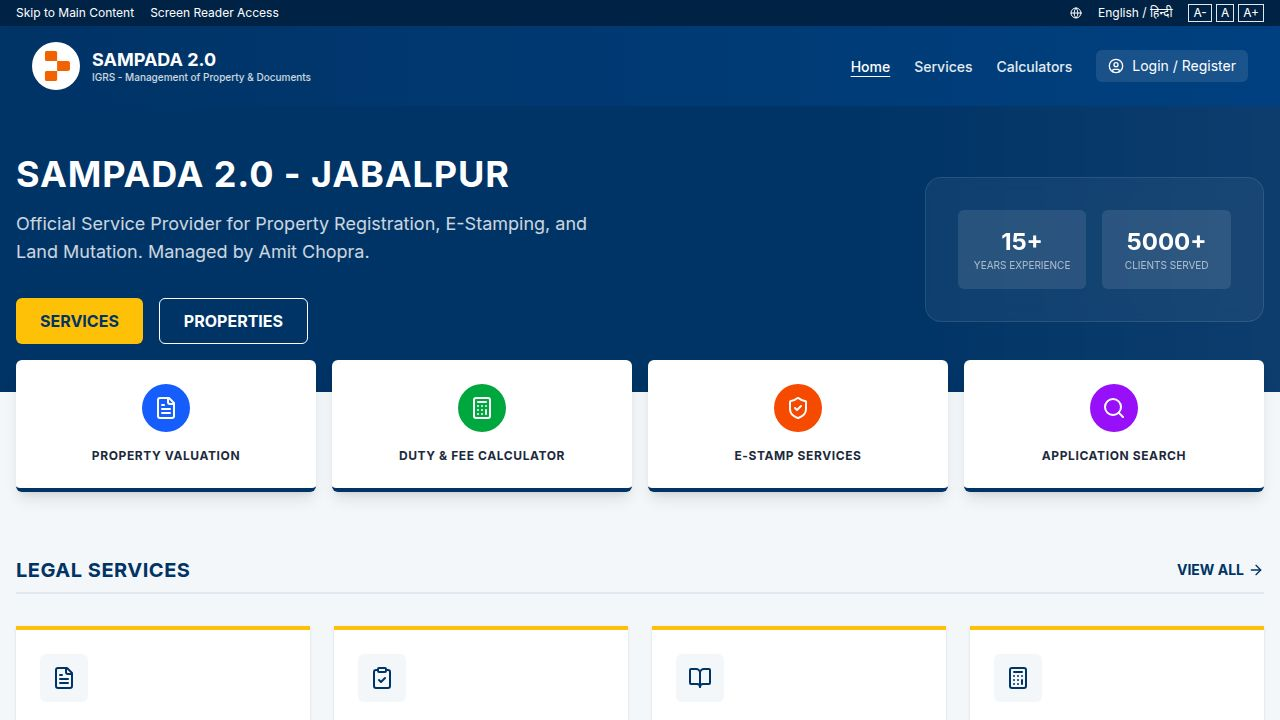
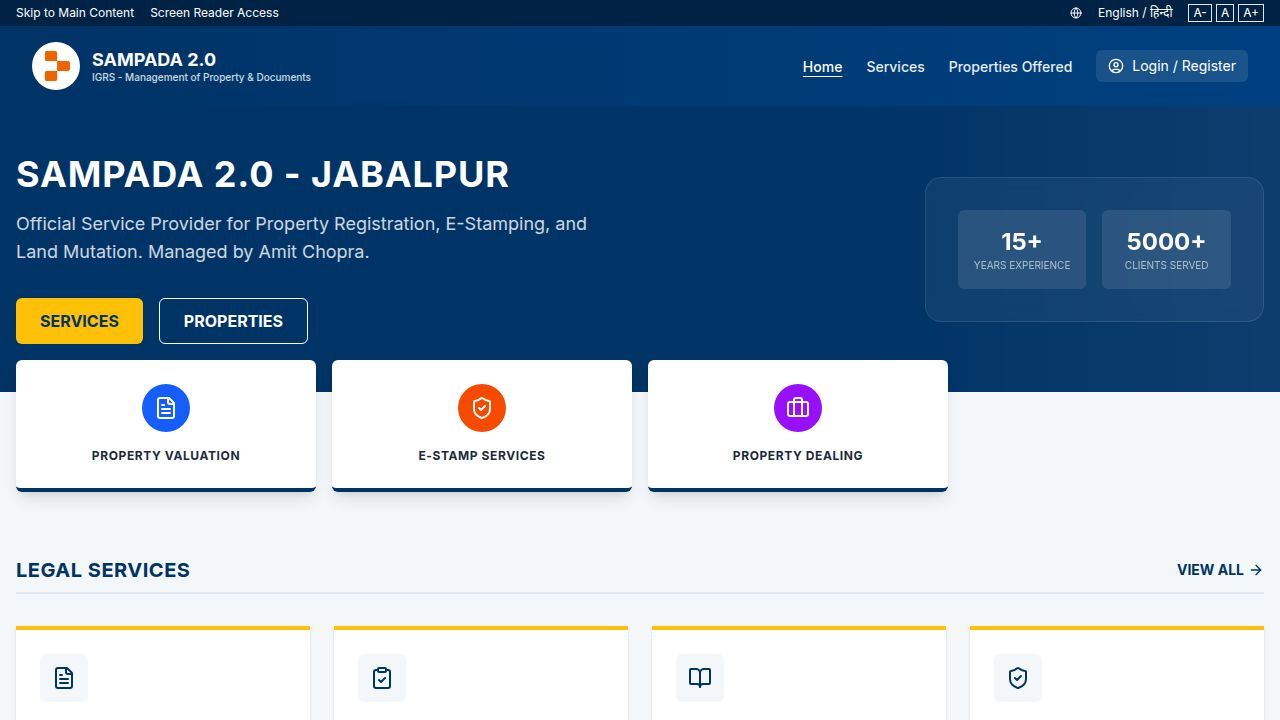
Remove the calculator page and related features from the website
Removes the CalculatorPage component, Calculator feature component, and all associated navigation links and routes from the application. Updates the home page's main actions and service list to reflect the removal.

Replit-Commit-Author: Agent
Replit-Commit-Session-Id: a9d32387-d7da-4cb9-b8a4-72939ba7c203
Replit-Commit-Checkpoint-Type: full_checkpoint
Replit-Commit-Event-Id: 92c1c980-40cc-4fc2-9f35-68050bcc5f41
Replit-Commit-Screenshot-Url: https://storage.googleapis.com/screenshot-production-us-central1/4aee175d-2489-4bc0-a9d9-9131ebe399c8/a9d32387-d7da-4cb9-b8a4-72939ba7c203/fiLgMfU
Replit-Helium-Checkpoint-Created: true

diff --git a/client/src/components/layout/Navbar.tsx b/client/src/components/layout/Navbar.tsx
@@ -55,9 +55,6 @@ export function Navbar() {
             <Link href="/properties">
               <a className={cn("text-white/90 hover:text-white text-sm font-medium", location === "/properties" && "text-white underline underline-offset-4")}>Properties Offered</a>
             </Link>
-            <Link href="/calculator">
-              <a className={cn("text-white/90 hover:text-white text-sm font-medium", location === "/calculator" && "text-white underline underline-offset-4")}>Calculators</a>
-            </Link>
             <div className="flex items-center gap-2 bg-white/10 px-3 py-1.5 rounded text-white text-sm cursor-pointer hover:bg-white/20 transition-colors">
               <UserCircle className="h-4 w-4" />
               <span>Login / Register</span>
@@ -76,7 +73,6 @@ export function Navbar() {
           <Link href="/"><a className="block text-white text-sm py-2">Home</a></Link>
           <Link href="/services"><a className="block text-white text-sm py-2">Services</a></Link>
           <Link href="/properties"><a className="block text-white text-sm py-2">Properties Offered</a></Link>
-          <Link href="/calculator"><a className="block text-white text-sm py-2">Calculators</a></Link>
           <div className="bg-white/10 p-2 text-white text-center rounded text-sm">Login / Register</div>
         </div>
       )}

diff --git a/client/src/pages/home.tsx b/client/src/pages/home.tsx
@@ -12,7 +12,6 @@ export default function Home() {
   const [, setLocation] = useLocation();
   const mainActions = [
     { title: "Property Valuation", icon: FileText, color: "bg-blue-600" },
-    { title: "Duty & Fee Calculator", icon: Calculator, color: "bg-green-600", href: "/calculator" },
     { title: "E-Stamp Services", icon: ShieldCheck, color: "bg-orange-600" },
     { title: "Property Dealing", icon: Briefcase, color: "bg-purple-600", href: "/properties" }
   ];
@@ -21,7 +20,7 @@ export default function Home() {
     { title: "Agreement", desc: "Legal preparation of various agreements", icon: FileText },
     { title: "Sales Deed", desc: "Official property sale documentation", icon: ClipboardCheck },
     { title: "Lease Deed Renewal", desc: "Seamless lease extensions", icon: BookOpen },
-    { title: "Mutation of Land", desc: "Land record title updates", icon: Calculator }
+    { title: "Mutation of Land", desc: "Land record title updates", icon: ShieldCheck }
   ];
 
   const forSaleProperties = [

diff --git a/client/src/App.tsx b/client/src/App.tsx
@@ -7,7 +7,6 @@ import NotFound from "@/pages/not-found";
 import Home from "@/pages/home";
 import Services from "@/pages/services";
 import Properties from "@/pages/properties";
-import CalculatorPage from "@/pages/calculator";
 import Contact from "@/pages/contact";
 
 function Router() {
@@ -16,7 +15,6 @@ function Router() {
       <Route path="/" component={Home} />
       <Route path="/services" component={Services} />
       <Route path="/properties" component={Properties} />
-      <Route path="/calculator" component={CalculatorPage} />
       <Route path="/contact" component={Contact} />
       <Route component={NotFound} />
     </Switch>

diff --git a/client/src/components/layout/Footer.tsx b/client/src/components/layout/Footer.tsx
@@ -24,7 +24,6 @@ export function Footer() {
             <ul className="space-y-3 text-sm">
               <li><Link href="/"><a className="hover:text-[#ffc107]">Home</a></Link></li>
               <li><Link href="/services"><a className="hover:text-[#ffc107]">Services</a></Link></li>
-              <li><Link href="/calculator"><a className="hover:text-[#ffc107]">Calculators</a></Link></li>
               <li><Link href="/contact"><a className="hover:text-[#ffc107]">Contact Us</a></Link></li>
             </ul>
           </div>
